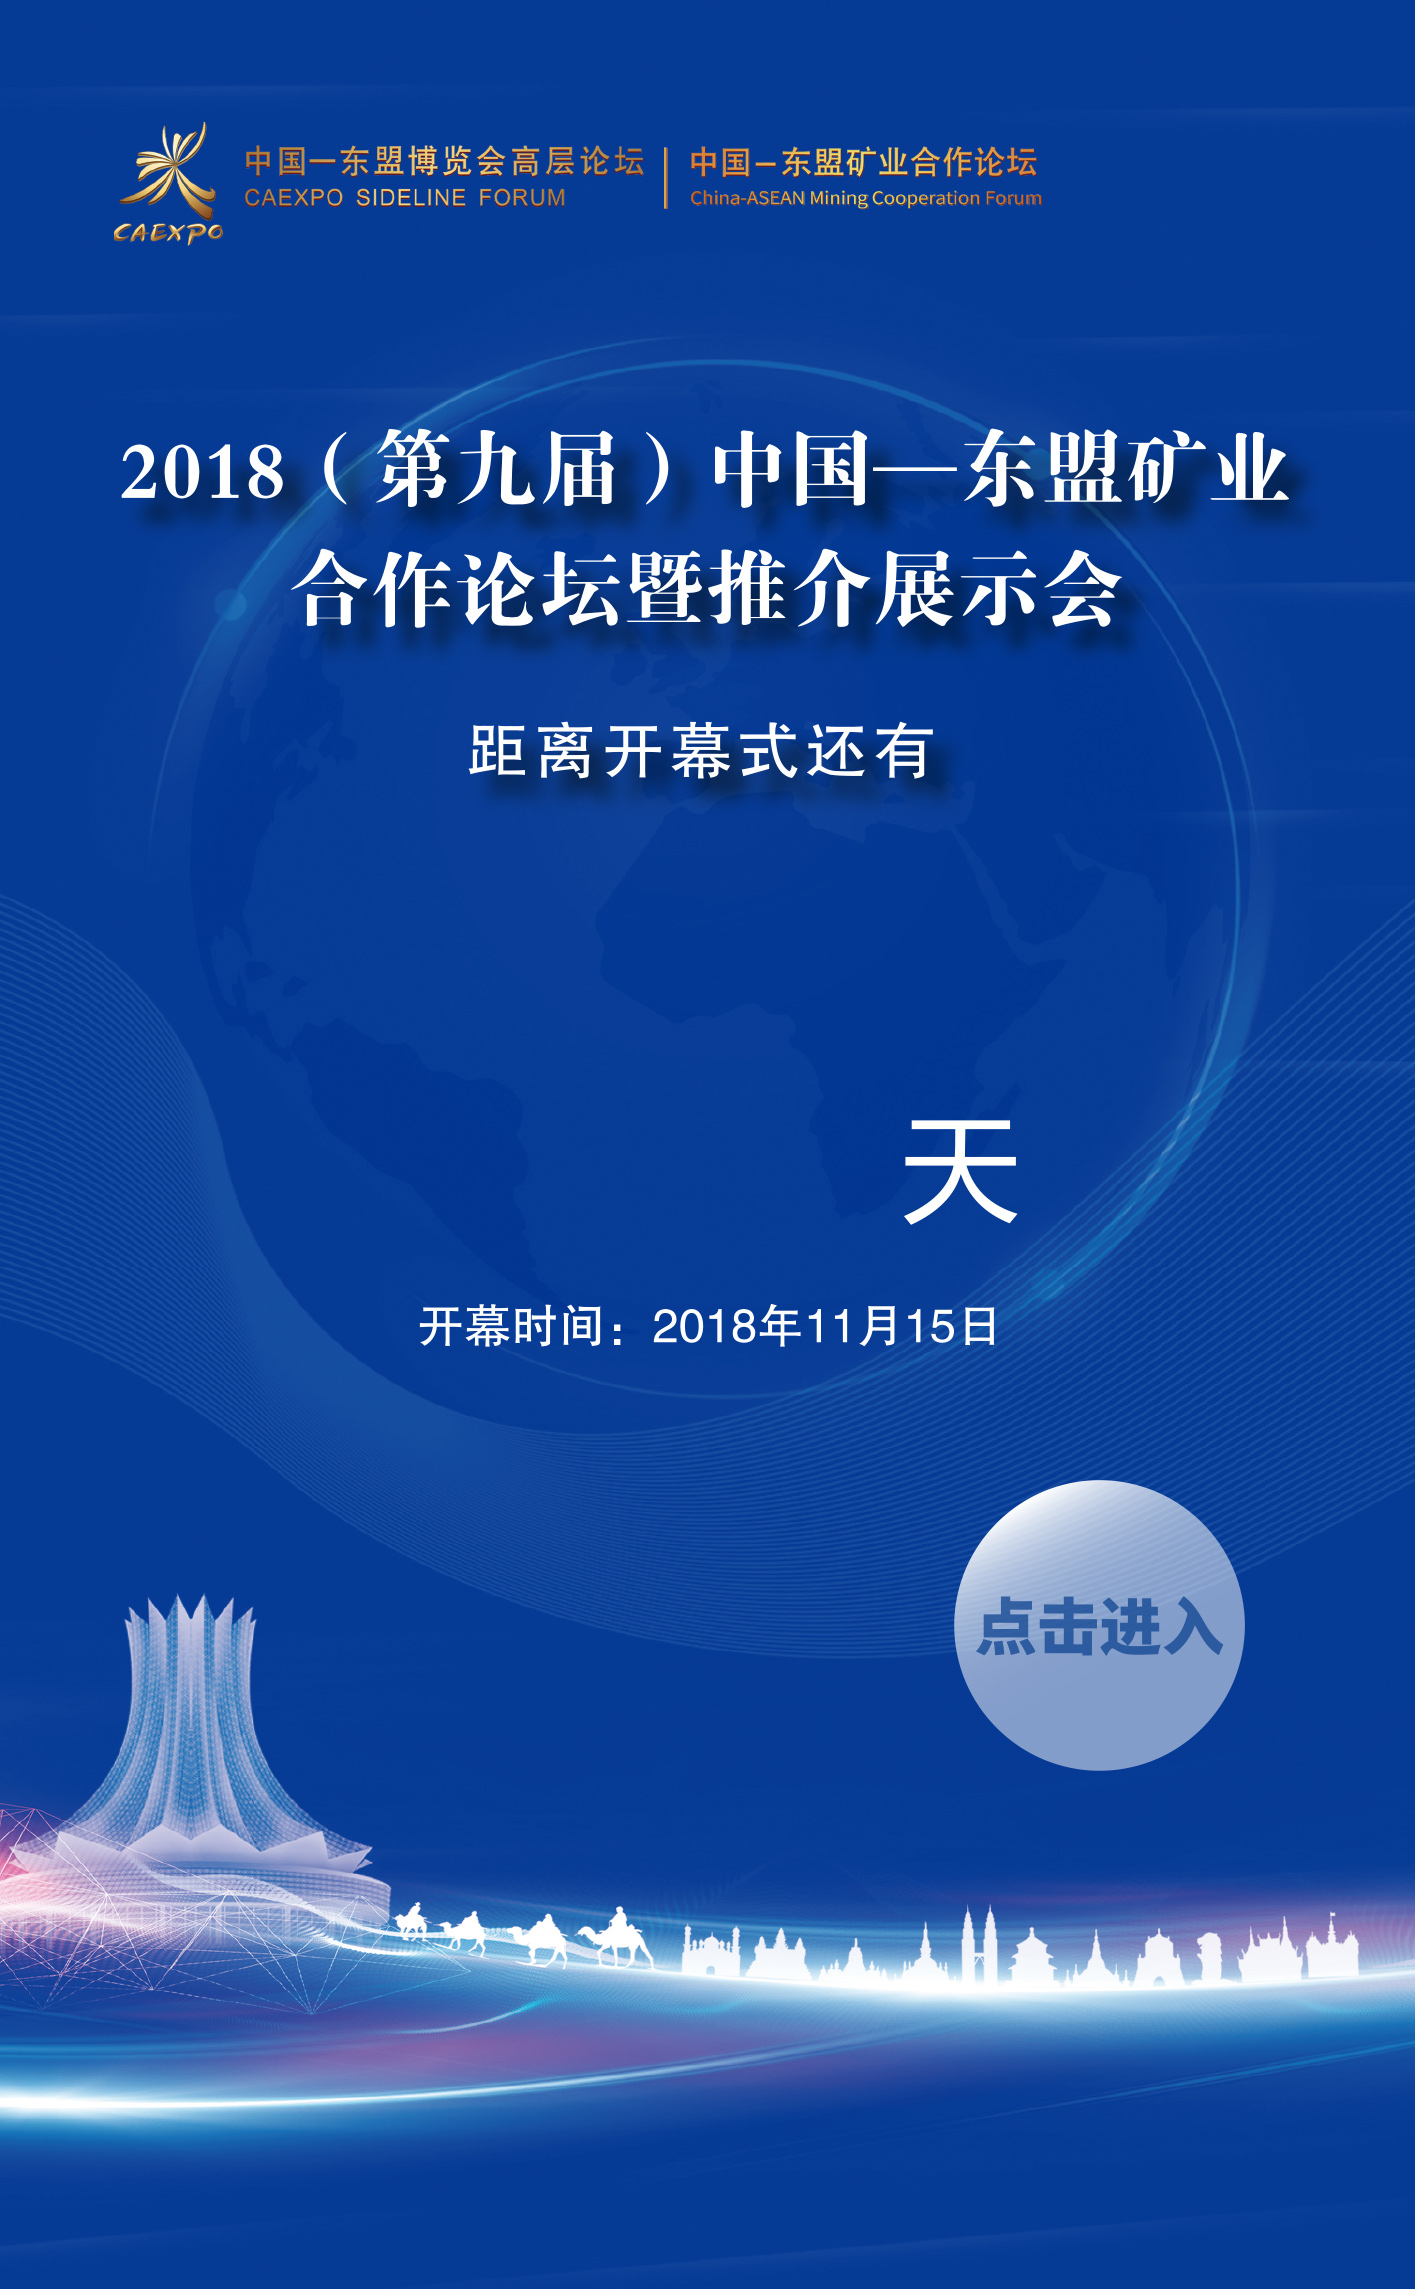
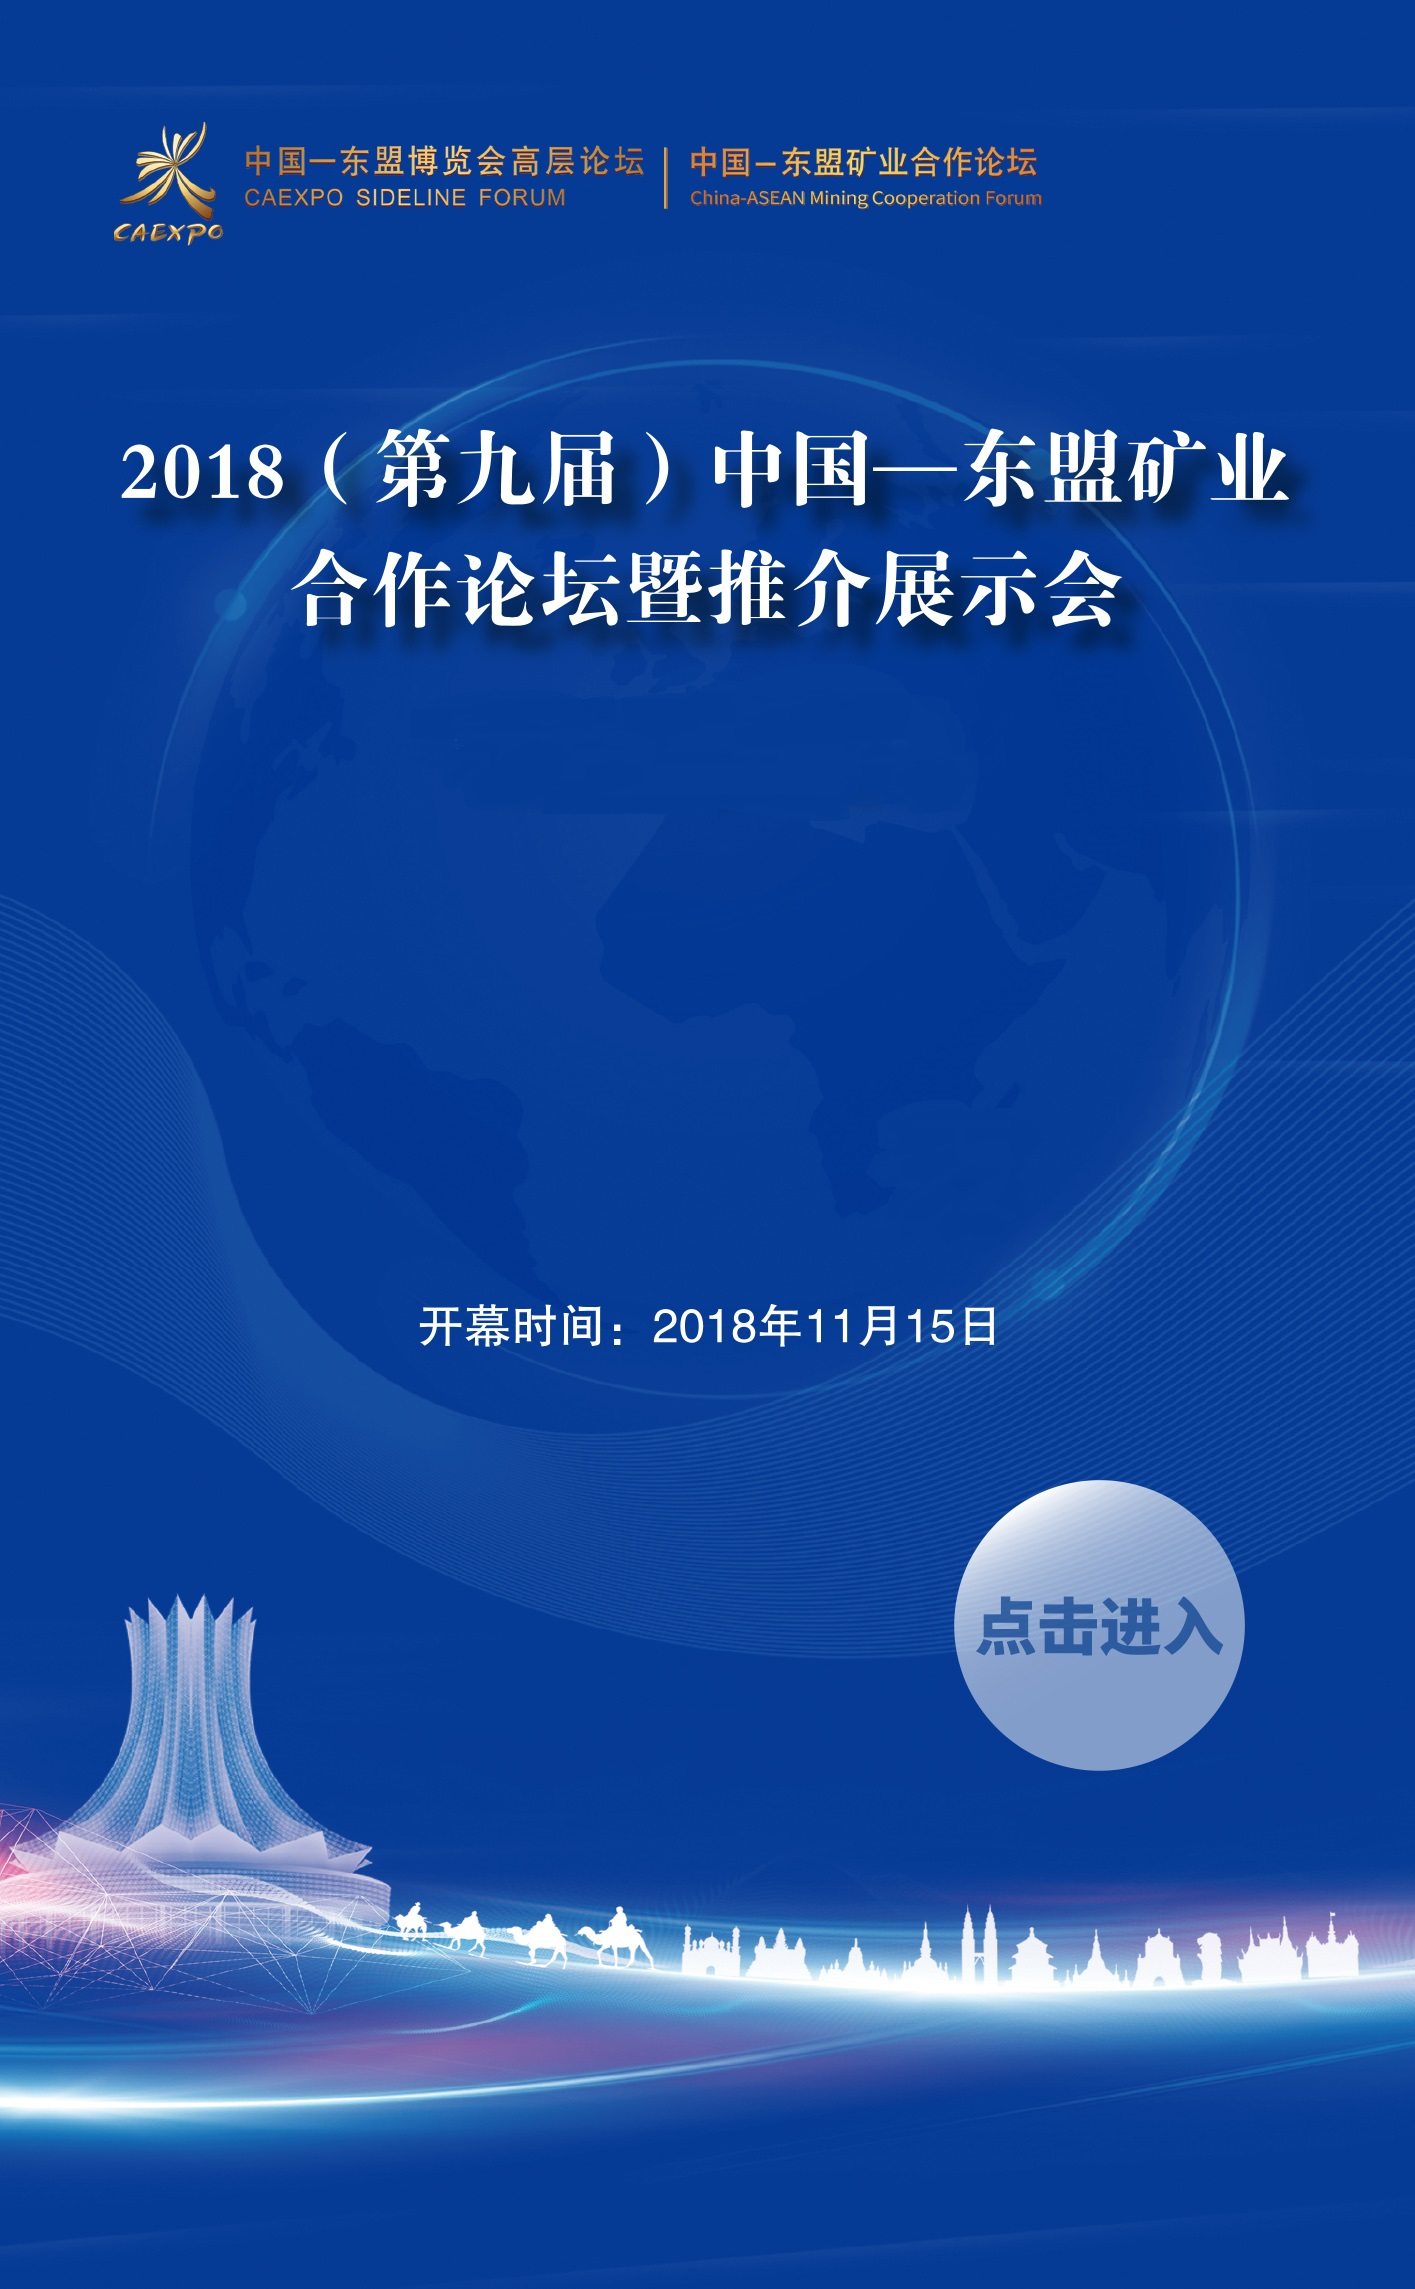
modify

Changed region(s): [[0.0933, 0.062, 0.7463, 0.1241], [0.311, 0.3102, 0.6841, 0.3722], [0.653, 0.4653, 0.7152, 0.5273]]

diff --git a/kyz/countdownone.html b/kyz/countdownone.html
@@ -17,15 +17,25 @@
 </head>
 <body>
 
-<a href="/"><div class="policy_bg" style="width: 16rem; height: 27.66rem;background: url(/themes/default/styles/images/c1.jpg) center center no-repeat;background-size: cover;"><div style="width: 16rem;text-align: center;margin-top: 66%;"><span id="time" style="color: #eecc75;
-    font-size: 4em;">30</span></div></div></a>
+<a href="/"><div class="policy_bg" style="width: 16rem; height: 27.66rem;background: url(/themes/default/styles/images/c1.jpg) center center no-repeat;background-size: cover;"><div style="width: 16rem;text-align: center;margin-top: 66%;position: relative;">
+  <div style="position: absolute;
+    text-align: center;
+    font-size: 24px;
+    color: #fff;
+    font-weight: bold;
+    top: -40%;
+    width: 100%;
+    letter-spacing: 5px;">大会第</div>
+  <span id="time" style="color: #eecc75;
+    font-size: 4em;">2</span></div></div></a>
 <script type="text/javascript">
-  var date_end = new Date('2018-11-15')
+ /* var date_end = new Date('2018-11-15')
   var date_now = Date.now()
   var differ = date_end.getTime() - date_now
   differ = differ / 3600 / 1000 / 24
   differ = Math.ceil(differ)
   document.getElementById('time').innerText = differ
+  */
 </script>
 </body>
 </html>

diff --git a/kyz/page/live/index.html b/kyz/page/live/index.html
@@ -177,6 +177,16 @@
         </div>
       </a>
     </div>
+
+    <div class="live-item">
+      <a href="http://zb.netman123.cn/live/tvchat-909358?ver=636780113704866109&shareuid=125053171&from=singlemessage&isappinstalled=0">
+        <div class="live-box">
+          <img src="./live6.jpg">
+          <div class="mask"><div class="play-btn"><div class="outter big-playbtn-hover-animation"></div></div></div>
+          <div class="live-title">2018中国—东盟矿业珠宝玉石/手工艺术创意设计和制作大赛作品展示暨颁奖仪式</div>
+        </div>
+      </a>
+    </div>
   </div>
 </div>
 <style type="text/css">
